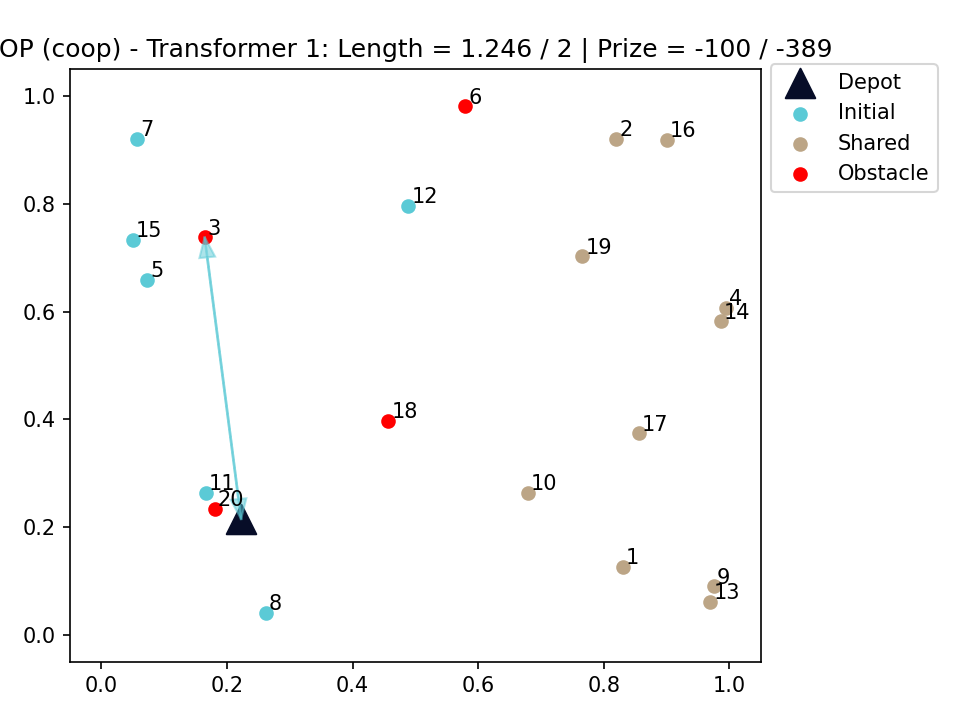
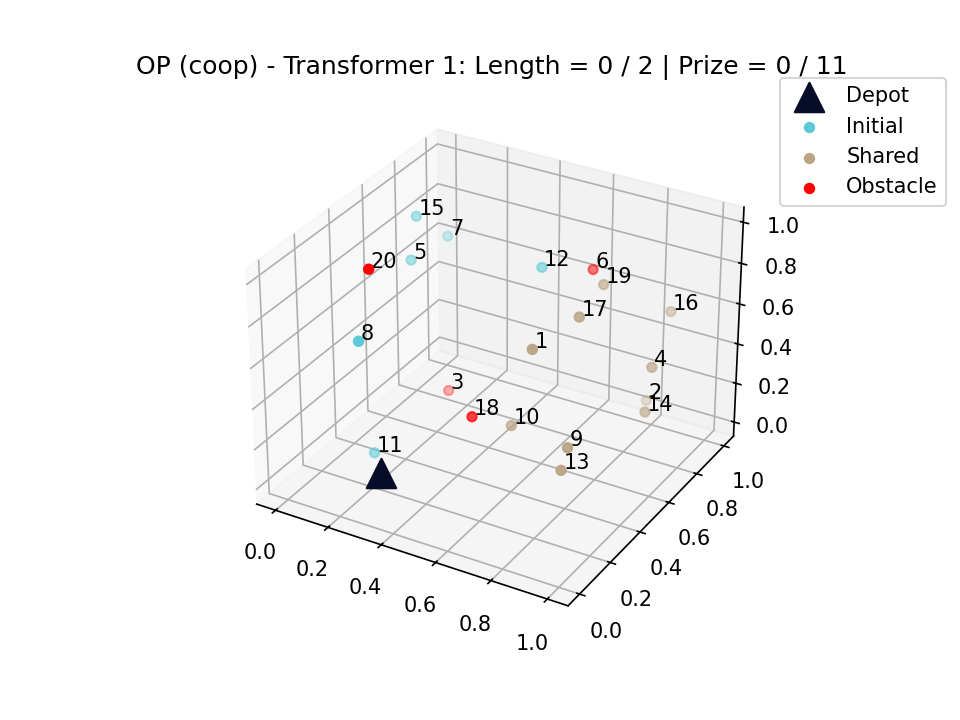
3d visualisation

diff --git a/test_plot.py b/test_plot.py
@@ -4,6 +4,7 @@ import random
 import argparse
 import numpy as np
 from matplotlib import pyplot as plt
+from mpl_toolkits.mplot3d import Axes3D
 
 from utils import load_model
 from utils.functions import load_problem
@@ -94,20 +95,19 @@ def plot_tour(tour, inputs, problem, model_name, data_dist='', num_depots=1):
     """
 
     # Initialize plot
-    fig, ax = plt.subplots()
-    ax.set_xlim([-.05, .05])
-    ax.set_ylim([-.05, .05])
+    fig = plt.figure()
+    ax = fig.add_subplot(111, projection='3d')
 
     # Data
     depot = inputs['depot']
     if num_depots > 1:
         depot2 = inputs['depot2']
-        plt.scatter(depot2[0], depot2[1], c='r')
+        ax.scatter(depot2[0], depot2[1], depot2[2], c='r')  # z-dimension added
     loc = inputs['loc']
 
     # Plot nodes (black circles) and depot (red circle)
-    plt.scatter(depot[0], depot[1], c='b')
-    plt.scatter(loc[..., 0], loc[..., 1], c='k')
+    ax.scatter(depot[0], depot[1], depot[2], c='b')  # z-dimension added
+    ax.scatter(loc[..., 0], loc[..., 1], loc[..., 2], c='k')  # z-dimension added
 
     # If tour starts and ends in depot
     if len(tour.shape) == 0:
@@ -118,7 +118,7 @@ def plot_tour(tour, inputs, problem, model_name, data_dist='', num_depots=1):
         if problem == 'op':
             # Add OP rewards to the title (if problem is OP)
             prize = inputs['prize']
-            title += ' / {:.4g} | Prize = {:.4g} / {:.4g}'.format(inputs['max_length'], 0, np.sum(prize))
+            title += ' / {:.4g} | Prize = {:.4g} / {:.4g}'.format(inputs['max_length'], 0, np.sum(prize[prize>0]))
         ax.set_title(title)
         plt.show()
         return
@@ -138,7 +138,7 @@ def plot_tour(tour, inputs, problem, model_name, data_dist='', num_depots=1):
         # Add OP prize to the title (if problem is OP)
         prize = inputs['prize']
         reward = np.sum(np.take(prize, tour[:-1] - 1))
-        title += ' / {:.4g} | Prize = {:.4g} / {:.4g}'.format(inputs['max_length'], reward, np.sum(prize))
+        title += ' / {:.4g} | Prize = {:.4g} / {:.4g}'.format(inputs['max_length'], reward, np.sum(prize[prize>0]))
     ax.set_title(title)
 
     # Add the start depot at the start of the tour
@@ -148,8 +148,8 @@ def plot_tour(tour, inputs, problem, model_name, data_dist='', num_depots=1):
     for i in range(1, tour.shape[0]):
         dx = loc[tour[i], 0] - loc[tour[i - 1], 0]
         dy = loc[tour[i], 1] - loc[tour[i - 1], 1]
-        plt.arrow(loc[tour[i - 1], 0], loc[tour[i - 1], 1], dx, dy, head_width=.025, fc='g', ec=None,
-                  length_includes_head=True)
+        dz = loc[tour[i], 2] - loc[tour[i - 1], 2]  # z-dimension added
+        ax.quiver(loc[tour[i - 1], 0], loc[tour[i - 1], 1], loc[tour[i - 1], 2], dx, dy, dz, color='g')
     plt.show()
 
 
@@ -173,11 +173,16 @@ def plot_multitour(num_agents, tours, inputs, problem, model_name, data_dist='',
 
     # Initialize global plots
     fig1 = plt.figure(num_agents)
-    plt.xlim([-.05, 1.05])
-    plt.ylim([-.05, 1.05])
+    ax1 = fig1.add_subplot(111, projection='3d')
+    ax1.set_xlim([-.05, 1.05])
+    ax1.set_ylim([-.05, 1.05])
+    ax1.set_zlim([-.05, 1.05])
+
     fig2 = plt.figure(num_agents + 1)
-    plt.xlim([-.05, 1.05])
-    plt.ylim([-.05, 1.05])
+    ax2 = fig2.add_subplot(111, projection='3d')
+    ax2.set_xlim([-.05, 1.05])
+    ax2.set_ylim([-.05, 1.05])
+    ax2.set_zlim([-.05, 1.05])
 
     # Assign a color to each agent
     colors = assign_colors(num_agents + 2)
@@ -192,8 +197,10 @@ def plot_multitour(num_agents, tours, inputs, problem, model_name, data_dist='',
 
         # Initialize individual plots
         fig = plt.figure(agent)
-        plt.xlim([-.05, 1.05])
-        plt.ylim([-.05, 1.05])
+        ax = fig.add_subplot(111, projection='3d')
+        ax.set_xlim([-.05, 1.05])
+        ax.set_ylim([-.05, 1.05])
+        ax.set_zlim([-.05, 1.05])
 
         # Data
         loc = inputs[agent]['loc']
@@ -204,36 +211,34 @@ def plot_multitour(num_agents, tours, inputs, problem, model_name, data_dist='',
         max_length = inputs[agent]['max_length']
 
         # Plot region assignment
-        plt.figure(num_agents + 1)
-        plt.scatter(loc[prize == 1][..., 0], loc[prize == 1][..., 1], c=color, label='Agent {}'.format(agent))
-        plt.scatter(depot[0], depot[1], s=200, c=color_depot, marker='^', label='Depot' if agent == 0 else '')
+        ax2.scatter(loc[prize == 1][..., 0], loc[prize == 1][..., 1], loc[prize == 1][..., 2], c=color, label='Agent {}'.format(agent))
+        ax2.scatter(depot[0], depot[1], depot[2], s=200, c=color_depot, marker='^', label='Depot' if agent == 0 else '')
         if num_depots > 1:
-            plt.scatter(depot2[0], depot2[1], s=200, c=color_depot, marker='v', label='Depot' if agent == 0 else '')
+            ax2.scatter(depot2[0], depot2[1], depot2[2], s=200, c=color_depot, marker='v', label='Depot' if agent == 0 else '')
 
         # Plot regions
-        plt.figure(num_agents)
-        plt.scatter(loc[prize == 1][..., 0], loc[prize == 1][..., 1], c=color, label='Agent {}'.format(agent))
-        plt.scatter(depot[0], depot[1], s=200, c=color_depot, marker='^', label='Depot' if agent == 0 else '')
+        ax1.scatter(loc[prize == 1][..., 0], loc[prize == 1][..., 1], loc[prize == 1][..., 2], c=color, label='Agent {}'.format(agent))
+        ax1.scatter(depot[0], depot[1], depot[2], s=200, c=color_depot, marker='^', label='Depot' if agent == 0 else '')
         if num_depots > 1:
-            plt.scatter(depot2[0], depot2[1], s=200, c=color_depot, marker='v', label='Depot' if agent == 0 else '')
+            ax1.scatter(depot2[0], depot2[1], depot2[2], s=200, c=color_depot, marker='v', label='Depot' if agent == 0 else '')
         if agent == 0:
             for l in range(len(loc)):
-                plt.text(loc[l, 0] + .005, loc[l, 1] + .005, str(l + 1))
-        plt.figure(agent)
-        plt.scatter(depot[0], depot[1], s=200, c=color_depot, marker='^', label='Depot')
+                ax1.text(loc[l, 0] + .005, loc[l, 1] + .005, loc[l, 2] + .005, str(l + 1))
+        
+        ax.scatter(depot[0], depot[1], s=200, c=color_depot, marker='^', label='Depot')
         if num_depots > 1:
-            plt.scatter(depot2[0], depot2[1], s=200, c=color_depot, marker='v', label='Depot')
+            ax.scatter(depot2[0], depot2[1], s=200, c=color_depot, marker='v', label='Depot')
         
         non_unit_non_obstacle_prize_indices = (prize !=1) & (prize>0)
         unit_non_obstacle_prize_indices = (prize == 1) & (prize>0)
-        plt.scatter(loc[unit_non_obstacle_prize_indices][..., 0], loc[unit_non_obstacle_prize_indices][..., 1], c=color, label='Initial')
-        plt.scatter(loc[non_unit_non_obstacle_prize_indices][..., 0], loc[non_unit_non_obstacle_prize_indices][..., 1], c=color_shared, label='Shared')
-        plt.scatter(loc[prize < 0][..., 0], loc[prize<0][..., 1], c='red', label='Obstacle')
+        ax.scatter(loc[unit_non_obstacle_prize_indices][..., 0], loc[unit_non_obstacle_prize_indices][..., 1], loc[unit_non_obstacle_prize_indices][..., 2], c=color, label='Initial')
+        ax.scatter(loc[non_unit_non_obstacle_prize_indices][..., 0], loc[non_unit_non_obstacle_prize_indices][..., 1], loc[non_unit_non_obstacle_prize_indices][..., 2], c=color_shared, label='Shared')
+        ax.scatter(loc[prize < 0][..., 0], loc[prize<0][..., 1], loc[prize<0][..., 2], c='red', label='Obstacle')
 
         for l in range(len(loc)):
-            plt.text(loc[l, 0] + .005, loc[l, 1] + .005, str(l + 1))
-        plt.legend(loc='center left', bbox_to_anchor=(1, 0.9))
-        plt.tight_layout(rect=[0, 0, 1, 0.95])
+            ax.text(loc[l, 0] + .005, loc[l, 1] + .005, loc[l, 2] + .005, str(l + 1))
+        ax.legend(loc='center left', bbox_to_anchor=(1, 0.9))
+        # ax.tight_layout(rect=[0, 0, 1, 0.95])
 
         # Calculate the length of the tour
         loc = np.concatenate(([depot], loc), axis=0)
@@ -251,8 +256,8 @@ def plot_multitour(num_agents, tours, inputs, problem, model_name, data_dist='',
         # Add OP prize to the title
         reward = np.sum(np.take(prize, tour[:-1] - 1))
         prize_sum += reward
-        prize_max += np.sum(prize)
-        info += ' / {:.4g} | Prize = {:.4g} / {:.4g}'.format(max_length, reward, np.sum(prize))
+        prize_max += np.sum(prize[prize>0])
+        info += ' / {:.4g} | Prize = {:.4g} / {:.4g}'.format(max_length, reward, np.sum(prize[prize>0]))
         plt.title(info)
 
         # Add the start depot and the end depot to the tour
@@ -266,19 +271,22 @@ def plot_multitour(num_agents, tours, inputs, problem, model_name, data_dist='',
         for i in range(1, tour.shape[0]):
             dx = loc[tour[i], 0] - loc[tour[i - 1], 0]
             dy = loc[tour[i], 1] - loc[tour[i - 1], 1]
-            plt.figure(agent)
-            plt.arrow(loc[tour[i - 1], 0], loc[tour[i - 1], 1], dx, dy, head_width=.025, fc=color, ec=color,
-                      length_includes_head=True, alpha=0.5)
-            plt.figure(num_agents)
-            plt.arrow(loc[tour[i - 1], 0], loc[tour[i - 1], 1], dx, dy, head_width=.025, fc=color, ec=color,
-                      length_includes_head=True, alpha=0.5)
+            dz = loc[tour[i], 2] - loc[tour[i - 1], 2]
+            # plt.figure(agent)
+            ax.quiver(loc[tour[i - 1], 0], loc[tour[i - 1], 1], loc[tour[i - 1], 2], dx, dy, dz, color=color, length=0.1)
+            ax1.quiver(loc[tour[i - 1], 0], loc[tour[i - 1], 1], loc[tour[i - 1], 2], dx, dy, dz, color=color, length=0.1)
+            # ax.arrow(loc[tour[i - 1], 0], loc[tour[i - 1], 1], loc[tour[i - 1], 2], dx, dy, dz, head_width=.025, fc=color, ec=color,
+                    #   length_includes_head=True, alpha=0.5)
+            # ax.figure(num_agents)
+            # ax1.arrow(loc[tour[i - 1], 0], loc[tour[i - 1], 1], loc[tour[i - 1], 2], dx, dy, dz, head_width=.025, fc=color, ec=color,
+                    #   length_includes_head=True, alpha=0.5)
         fig.savefig(image_dir + '/agent_{}.png'.format(agent), dpi=150)
 
     # Plot region assignment
-    plt.figure(num_agents + 1)
-    plt.title('Region assignment')
-    plt.legend(loc='center left', bbox_to_anchor=(1, 0.85))
-    plt.tight_layout(rect=[0.05, 0, 1, 1])
+    # plt.figure(num_agents + 1)
+    ax2.set_title('Region assignment')
+    ax2.legend(loc='center left', bbox_to_anchor=(1, 0.85))
+    fig2.tight_layout(rect=[0.05, 0, 1, 1])
     fig2.savefig(image_dir + '/assignment.png', dpi=150)
 
     # Agents information
@@ -286,10 +294,10 @@ def plot_multitour(num_agents, tours, inputs, problem, model_name, data_dist='',
     info += ' (' + data_dist.lower() + ')' if len(data_dist) > 0 else ''
     info += ' - {:s}: Av. Length = {:.3g}'.format(model_name, length_sum / num_agents)
     info += ' / {:.3g} | Total Prize = {:.3g} / {:.3g}'.format(inputs[0]['max_length'], prize_sum, np.sum(prize_max))
-    plt.figure(num_agents)
-    plt.title(info)
-    plt.legend(loc='center left', bbox_to_anchor=(1, 0.85))
-    plt.tight_layout(rect=[0.05, 0, 1, 1])
+    # plt.figure(num_agents)
+    ax1.set_title(info)
+    ax1.legend(loc='center left', bbox_to_anchor=(1, 0.85))
+    fig1.tight_layout(rect=[0.05, 0, 1, 1])
     fig1.savefig(image_dir + '/solution.png', dpi=150)
     plt.show()
 

diff --git a/nets/attention_model.py b/nets/attention_model.py
@@ -199,8 +199,6 @@ class AttentionModel(nn.Module):
 
     def _init_embed(self, input):
         """Embedding for the inputs"""
-        print(input['loc'])
-        print(input['depot'])
         # VRP, OP or PCTSP
         if self.is_op:
             features = ('prize', )

diff --git a/README.md b/README.md
@@ -75,7 +75,7 @@ and follow the
 
 Finally, you can visualize an example of executions using:
 ```bash
-python3 test_plot.py --graph_size 20 --num_agents 2 --data_dist coop --load_path outputs/op_coop20/km/attention_rollout_3agents_20240228T115151 --test_coop True
+python3 test_plot.py --graph_size 20 --num_agents 2 --data_dist coop --load_path outputs/op_coop20/km/attention_rollout_2agents_20240305T122127 --test_coop True
 ```
 
 Use the `--baseline` option to visualize the prediction of one of the baselines mentioned before:
